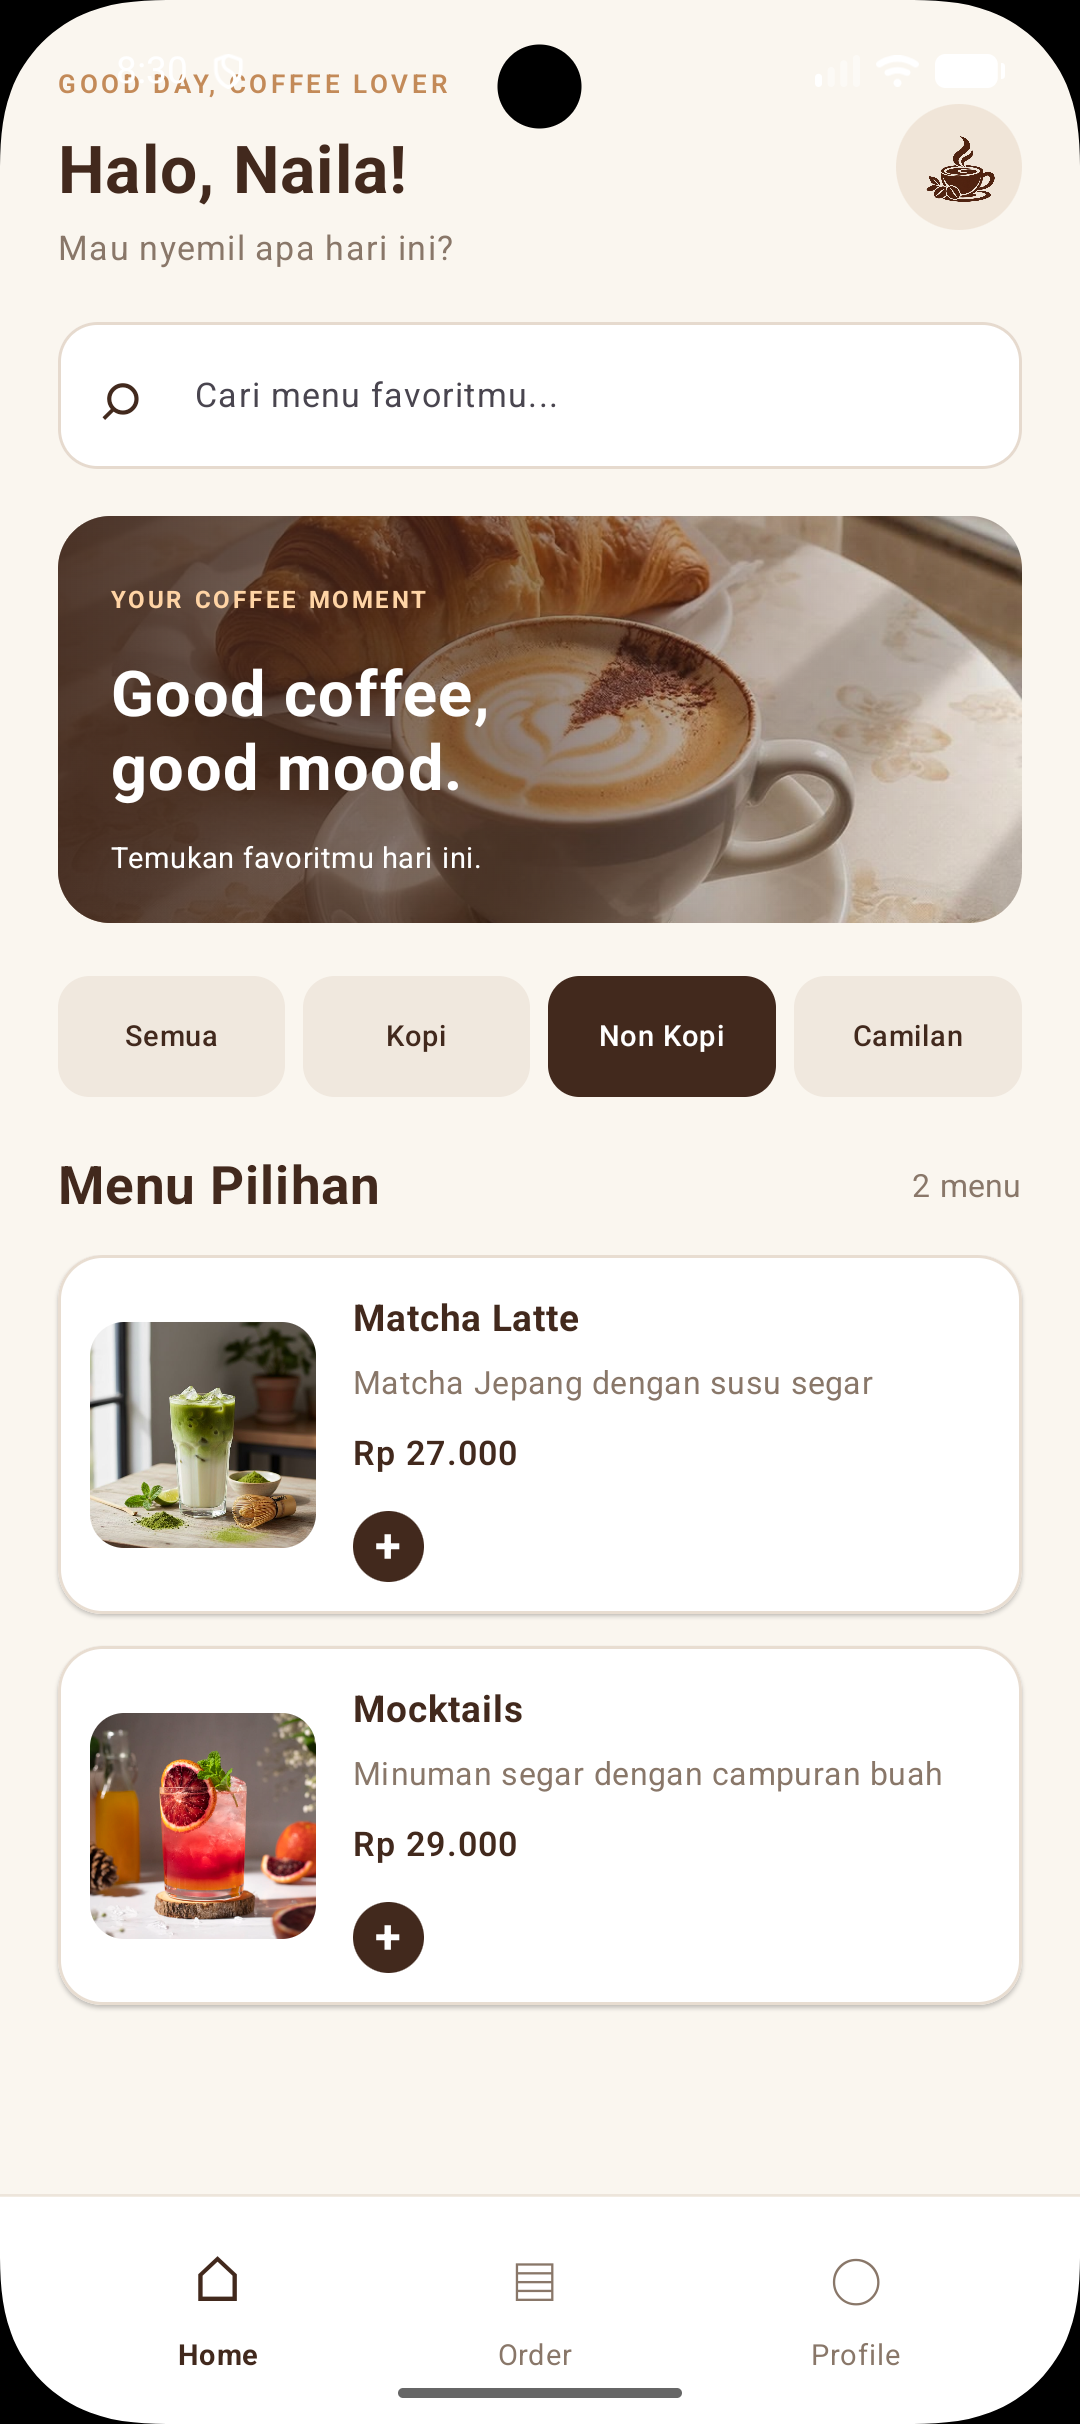
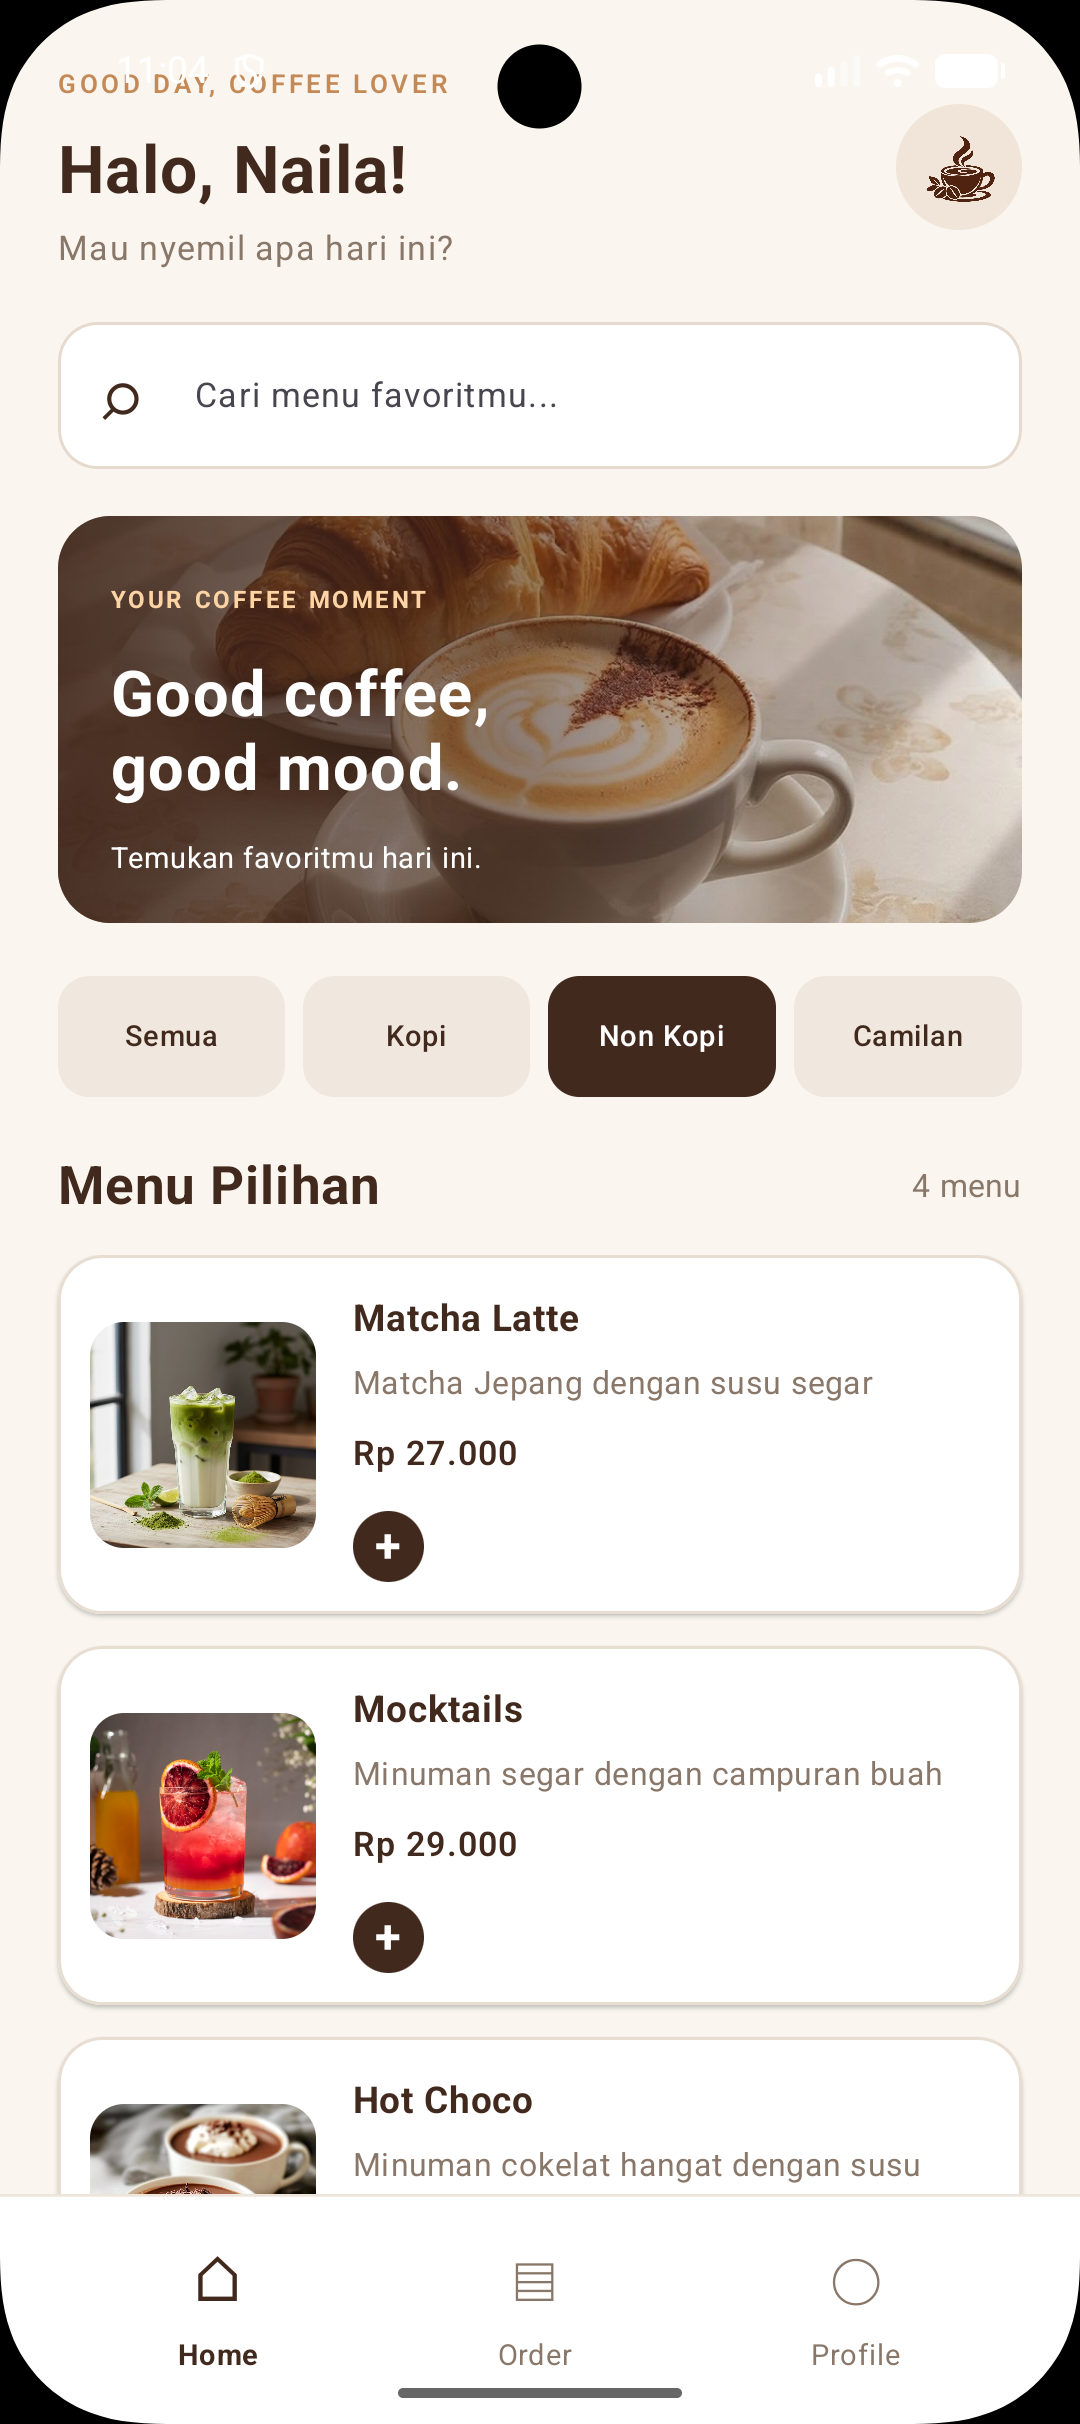
update menu

Changed region(s): [[0.0306, 0.8663, 0.3056, 0.9282], [0.3361, 0.8354, 0.55, 0.8973], [0.9167, 0.8663, 0.9472, 0.8973]]

diff --git a/app/src/main/java/lat/pam/kopidannyemil/model/Product.kt b/app/src/main/java/lat/pam/kopidannyemil/model/Product.kt
@@ -14,6 +14,7 @@ data class Product(
 val dummyProducts = listOf(
 
     // KATEGORI KOPI
+
     Product(
         id = 1,
         name = "Kopi Susu Gula Aren",
@@ -50,7 +51,26 @@ val dummyProducts = listOf(
         description = "Espresso dengan kesegaran jeruk"
     ),
 
+    Product(
+        id = 14,
+        name = "Caramel Frappuccino",
+        category = "Kopi",
+        price = 32000,
+        image = R.drawable.caramel_frappucino,
+        description = "Kopi blended dengan susu, es, dan karamel"
+    ),
+
+    Product(
+        id = 16,
+        name = "Avocado Coffee",
+        category = "Kopi",
+        price = 30000,
+        image = R.drawable.avocado_coffee,
+        description = "Perpaduan alpukat, espresso, dan susu"
+    ),
+
     // KATEGORI NON KOPI
+
     Product(
         id = 5,
         name = "Matcha Latte",
@@ -69,7 +89,26 @@ val dummyProducts = listOf(
         description = "Minuman segar dengan campuran buah"
     ),
 
+    Product(
+        id = 13,
+        name = "Hot Choco",
+        category = "Non Kopi",
+        price = 25000,
+        image = R.drawable.hot_choco,
+        description = "Minuman cokelat hangat dengan susu"
+    ),
+
+    Product(
+        id = 15,
+        name = "Cookies n Cream Frappe",
+        category = "Non Kopi",
+        price = 30000,
+        image = R.drawable.cookies_cream,
+        description = "Minuman blended dengan cookies dan krim"
+    ),
+
     // KATEGORI CAMILAN
+
     Product(
         id = 7,
         name = "Donat Cokelat",
@@ -123,5 +162,4 @@ val dummyProducts = listOf(
         image = R.drawable.cireng,
         description = "Cireng renyah dengan sambal rujak"
     )
-
 )
